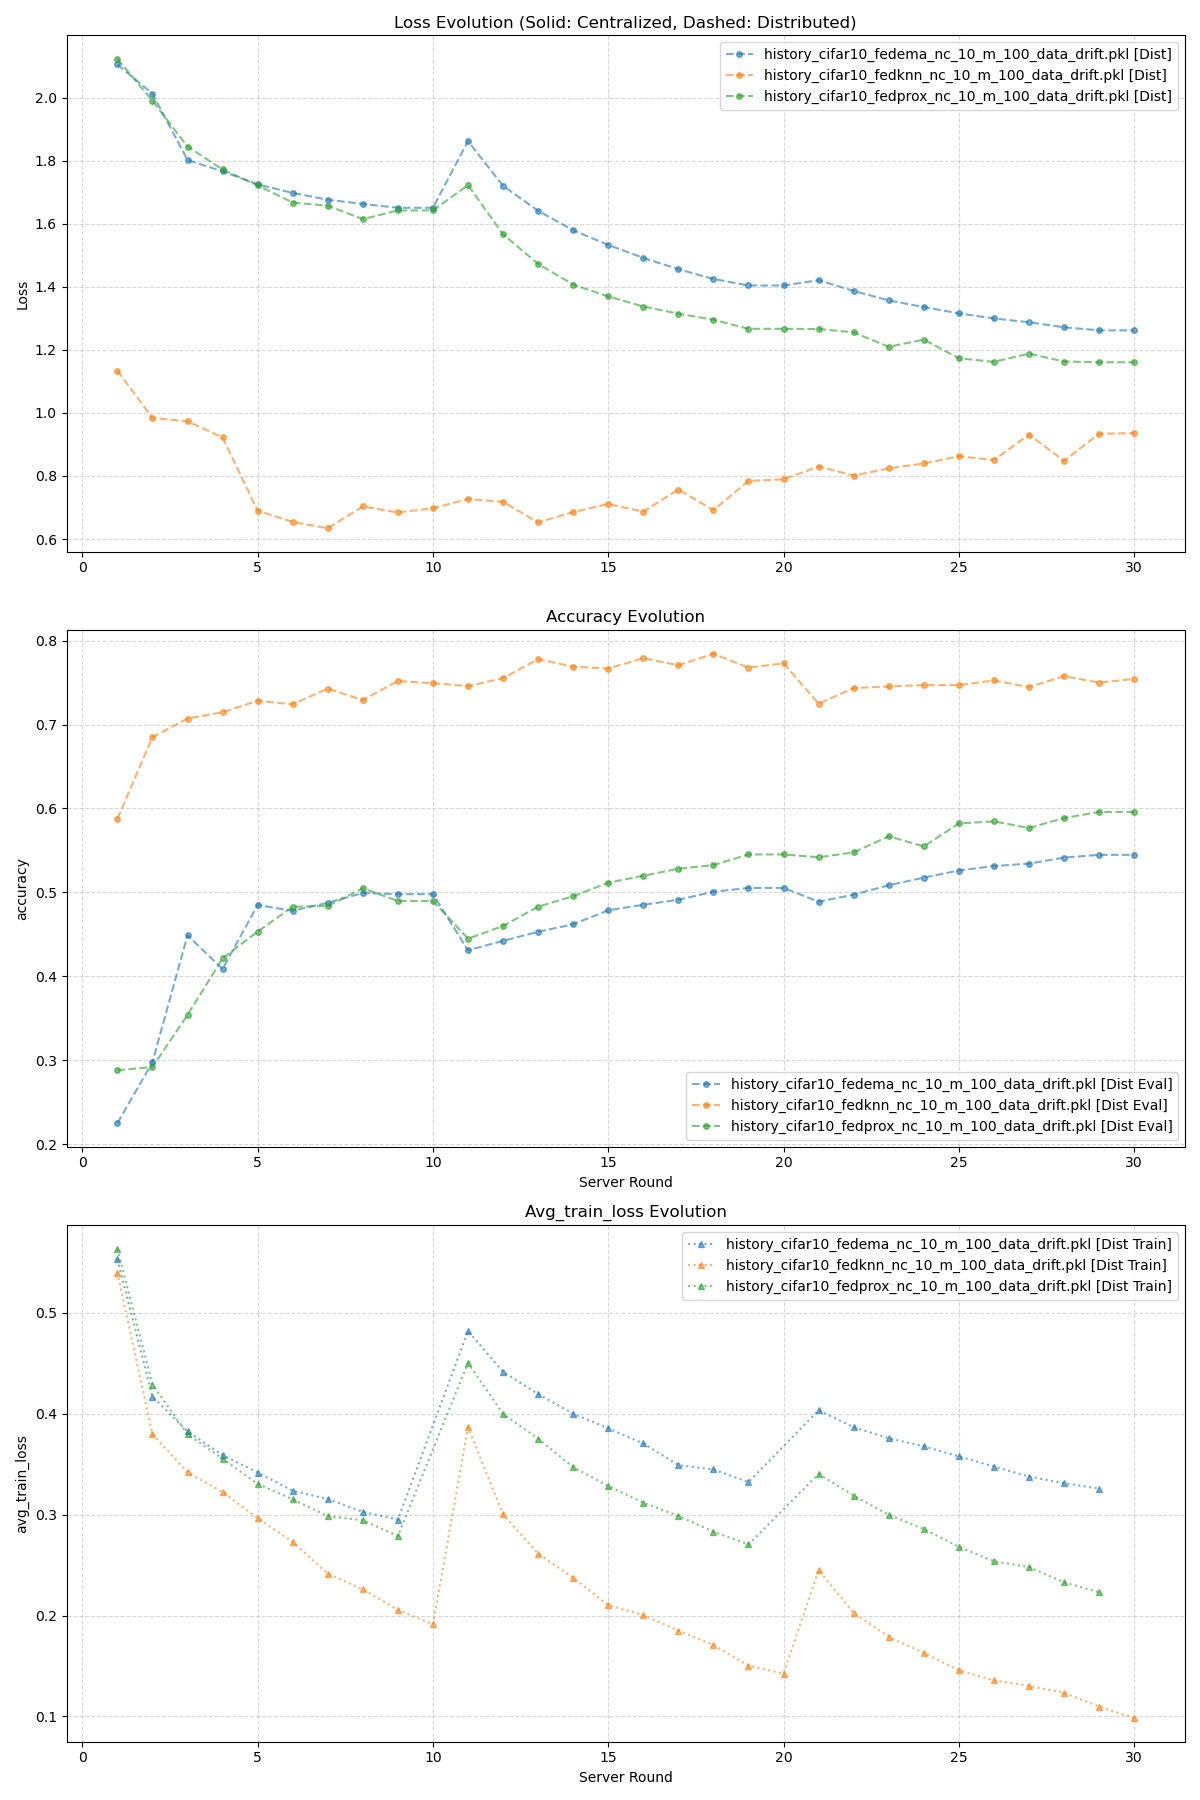
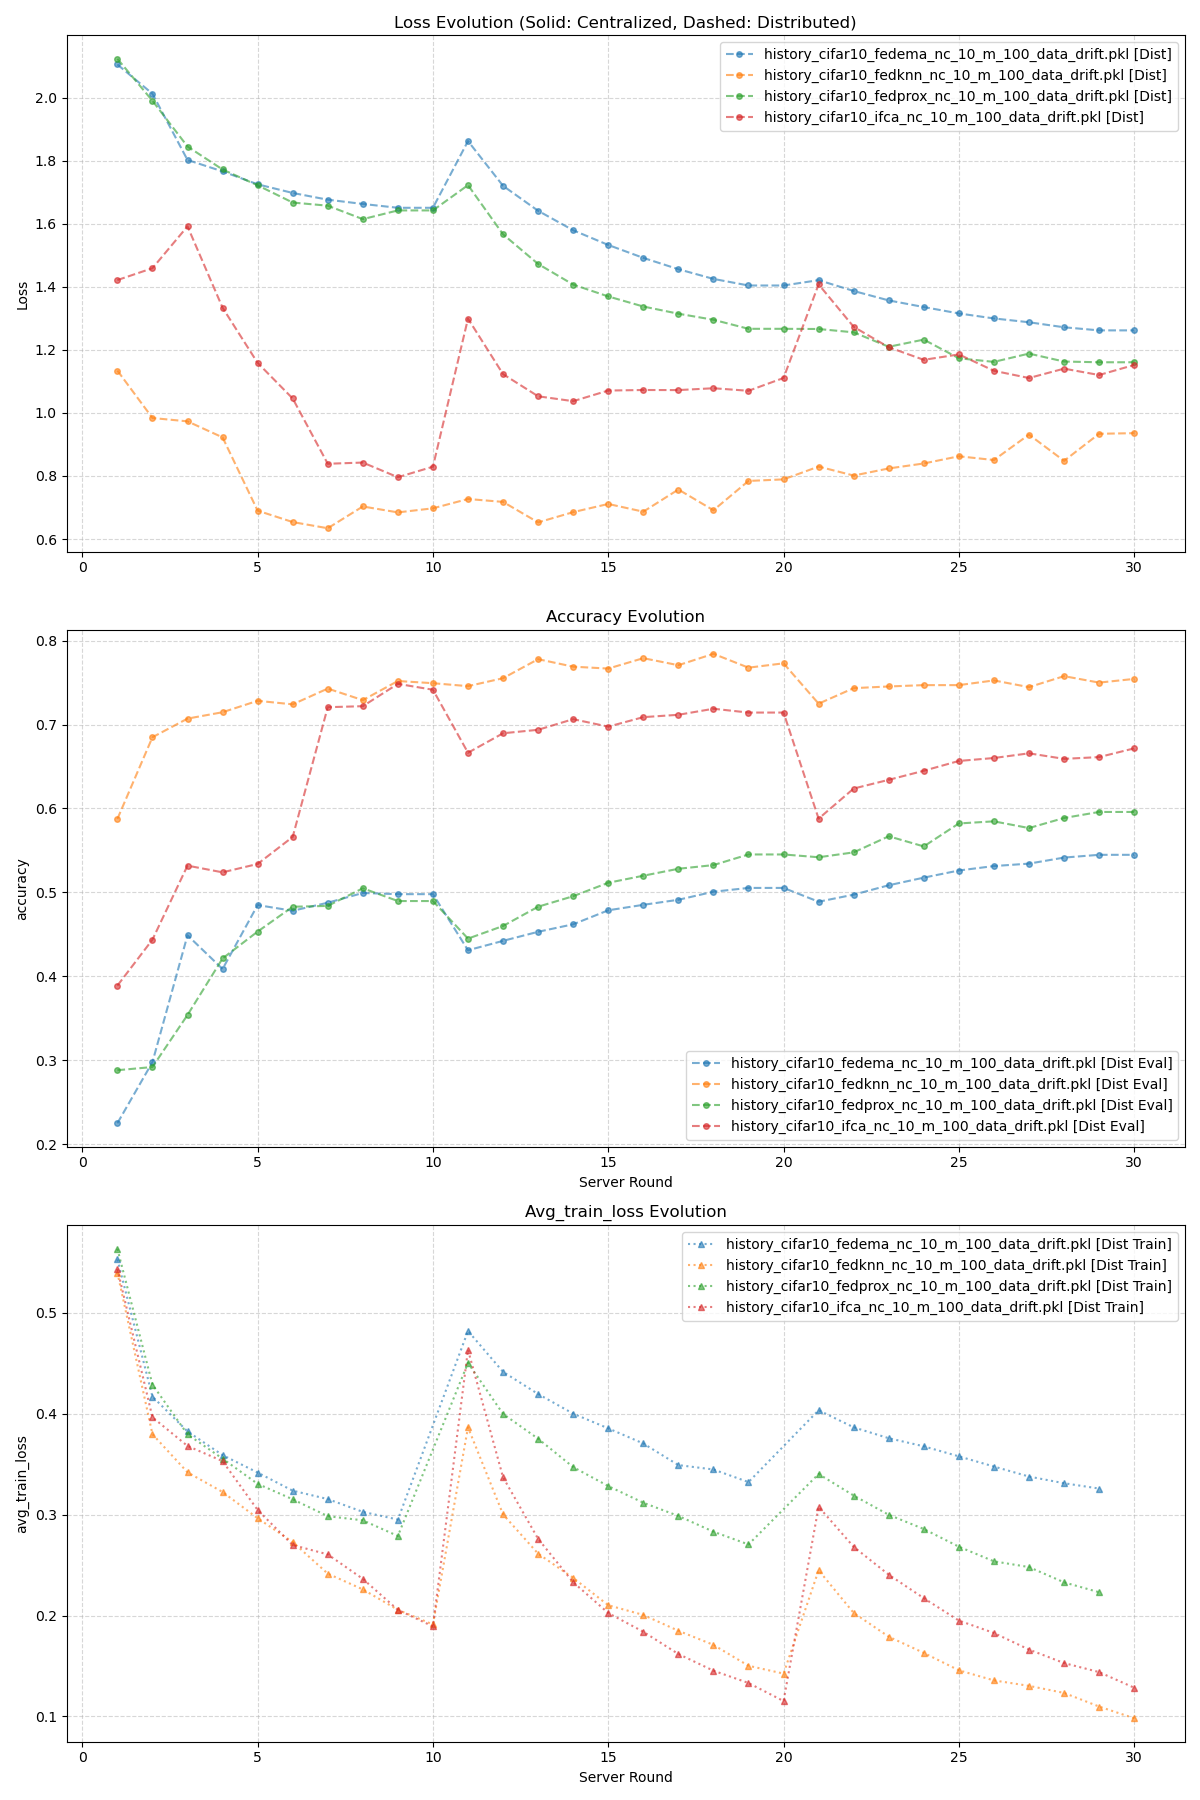
flwr impl of similarity based clustering

diff --git a/fed_niid/flwr_impl/sim_cl_strategy.py b/fed_niid/flwr_impl/sim_cl_strategy.py
@@ -1,0 +1,245 @@
+import flwr as fl
+from flwr.common import (
+    Parameters,
+    FitRes,
+    ndarrays_to_parameters,
+    parameters_to_ndarrays,
+    EvaluateIns,
+    EvaluateRes,
+    NDArrays,
+)
+
+from typing import List, Tuple, Union, Optional, Dict
+from functools import reduce
+from torch.utils.data import DataLoader
+from IPython.display import clear_output
+import numpy as np
+import math
+from collections import defaultdict
+import copy
+from sklearn.cluster import AgglomerativeClustering
+
+class FlowerStrategy(fl.server.strategy.Strategy):
+    def __init__(
+        self,
+        num_clients: int,
+        initial_parameters: Parameters,
+        k_clusters:int = 3,
+        fraction_fit: float = 1.0,
+        fraction_evaluate:float =1.0,
+        global_dataset=None,
+        global_bs=None,
+    ):
+        self.num_clients = num_clients
+        self.fraction_fit = fraction_fit
+        self.fraction_evaluate = fraction_evaluate
+        self.k_clusters = k_clusters
+                
+        if global_dataset and global_bs:
+            self.global_dataset = global_dataset
+            self.global_loader = DataLoader(global_dataset, batch_size=128, shuffle=True)
+        else:
+            self.global_dataset, self.global_loader = None, None
+        
+        self.weights = parameters_to_ndarrays(initial_parameters)
+
+        self.cluster_models = {i:copy.deepcopy(self.weights) for i in range(k_clusters)}
+        
+    def initialize_parameters(self, client_manager):
+        
+        # get all the client cids from the manager
+        self.client_cluster_map = self.cluster_clients({client_cid:copy.deepcopy(self.weights) for client_cid, client in client_manager.all()})
+
+        initial_parameters = ndarrays_to_parameters(self.weights)        
+        return initial_parameters
+
+    def configure_fit(
+        self, server_round: int, parameters: Parameters, client_manager: fl.server.client_manager.ClientManager
+    ) -> List[Tuple[fl.server.client_proxy.ClientProxy, fl.common.FitIns]]:
+
+        sample_size = int(self.num_clients * self.fraction_fit)
+        clients = client_manager.sample(sample_size, min_num_clients=1)
+
+        fit_configurations = []
+
+        for client in clients :
+
+            cluster_id = self.client_cluster_map[client.cid]         
+            fitins = fl.common.FitIns(self.cluster_models[cluster_id], {"server_round":server_round, "cluster_id":cluster_id})
+            fit_configurations.append((client, fitins))
+
+        return fit_configurations
+
+    def aggregate_fit(
+        self,
+        server_round: int,
+        results: List[Tuple[fl.server.client_proxy.ClientProxy, FitRes]],
+        failures: List[Union[Tuple[fl.server.client_proxy.ClientProxy, FitRes], BaseException]],
+    ) -> Tuple[Optional[Parameters], Dict[str, float]]:
+
+        if not results:
+            return None, {}
+
+        if failures:
+            print(f"\n[!] Round {server_round} reported {len(failures)} failures.")
+            for i, failure in enumerate(failures):
+                # failure might be a tuple (ClientProxy, Exception) or just Exception
+                if isinstance(failure, tuple):
+                    proxy, exc = failure
+                    print(f"    Failure {i} (Client {proxy.cid}): {exc}")
+                else:
+                    print(f"    Failure {i}: {failure}")
+
+        loss_aggregated = []
+        
+        client_weights = {}
+        
+        for client, fit_res in results:
+            w = parameters_to_ndarrays(fit_res.parameters)            
+            loss_aggregated.append(fit_res.metrics['train_loss'])
+            client_weights[client.cid] = (w, fit_res.metrics['num_examples'])            
+
+        active_cids = list(client_weights.keys())
+
+        self.client_cluster_map = self.cluster_clients(client_weights, active_cids)
+        
+        cluster_to_clients = defaultdict(list)
+
+        for client_cid, cluster_id in self.client_cluster_map:
+            if client_cid in active_cids:
+                cluster_to_clients[cluster_id].append(client_weights[client_cid])
+
+        for i in range(self.k_clusters):
+            if i in cluster_to_clients:
+                self.cluster_models[i] = self.cluster_aggregate(cluster_to_clients[i])
+            else:
+                pass 
+
+        metrics = {"avg_train_loss": sum(loss_aggregated) / len(loss_aggregated)}
+
+        return ndarrays_to_parameters(self.cluster_models[0]), metrics
+
+    def configure_evaluate(
+        self, server_round: int, parameters: Parameters, client_manager: fl.server.client_manager.ClientManager
+    ) -> List[Tuple[fl.server.client_proxy.ClientProxy, EvaluateIns]]:
+
+        # Sample clients for evaluation
+        sample_size = int(self.num_clients * self.fraction_evaluate)
+        clients = client_manager.sample(sample_size, min_num_clients=1)
+
+        evaluate_configurations = []
+
+        for client in clients :
+            cluster_id = self.client_cluster_map[client.cid]
+
+            evaluate_ins = EvaluateIns(self.cluster_models[cluster_id], {"server_round":server_round, "cluster_id":cluster_id})
+            evaluate_configurations.append((client, evaluate_ins))
+
+        return evaluate_configurations
+
+    def aggregate_evaluate(
+        self,
+        server_round: int,
+        results: List[Tuple[fl.server.client_proxy.ClientProxy, EvaluateRes]],
+        failures: List[Union[Tuple[fl.server.client_proxy.ClientProxy, EvaluateRes], BaseException]],
+    ) -> Tuple[Optional[float], Dict[str, float]]:
+
+        if not results:
+            return None, {}
+
+        if failures:
+            print(f"Round {server_round} had {len(failures)} failures.")
+            for fail in failures:
+                # fail is a tuple or an exception depending on Flower version/context
+                if isinstance(fail, BaseException):
+                    print(f"Failure: {fail}")
+                else:
+                    # It's a tuple (client_proxy, exception)
+                    print(f"Client {fail[0].cid} failed: {fail[1]}")
+
+        accuracies = [r.metrics["val_acc"] * r.num_examples for _, r in results]
+        examples = [r.num_examples for _, r in results]
+        losses = [r.metrics['val_loss'] * r.num_examples for _, r in results]
+              
+        if sum(examples) == 0:
+            weighted_acc = 0
+            weighted_loss = 0
+        else:
+            weighted_acc = sum(accuracies) / sum(examples)
+            weighted_loss = sum(losses) / sum(examples)
+
+        clear_output(wait=True)
+        print(f"Round {server_round} - Average Accuracy of Personalized Models: {weighted_acc * 100:.2f}%")
+
+        return float(weighted_loss), {"accuracy": float(weighted_acc), "cluster_assignments":copy.deepcopy(self.client_cluster_map)}
+
+    def evaluate(self, server_round: int, parameters: Parameters) -> Optional[Tuple[float, Dict[str, float]]]:
+        """
+        Evaluate the global centroid model on server-side data (if available).
+        To use this, pass an 'evaluate_fn' to the Strategy if you want custom logic,
+        otherwise, return None implies no centralized evaluation.
+        """       
+        return None      
+    
+    def cluster_aggregate(self, clients_weights : List[tuple[str, int, NDArrays]]) -> NDArrays:    
+
+        num_clients = len(clients_weights)
+
+        weighted_weights = [
+            [layer  for layer in weights] for _, _, weights in clients_weights
+        ]
+
+        # Compute average weights of each layer
+        weights_prime: NDArrays = [
+            reduce(np.add, layer_updates) / num_clients
+            for layer_updates in zip(*weighted_weights, strict=True)
+        ]
+        return weights_prime
+
+    def flatten(self, weights_ndarrays : NDArrays):
+        return np.hstack([layer.flatten() for layer in weights_ndarrays])    
+
+    def calculate_pairwise_distances(self, client_weights : Dict[int, Tuple[NDArrays, int]], active_cids) -> Dict[Tuple[int, int], float]:
+
+        distances = {}
+        flat_vecs = {cid: self.flatten(client_weights[cid][0]) for cid in active_cids}
+
+        for client_a in active_cids:
+            for client_b in active_cids:
+                if client_a == client_b:
+                    distances[(client_a, client_b)] = 0.0
+                else:
+                    dist = np.linalg.norm(flat_vecs[client_a] - flat_vecs[client_b], ord=2)
+                    distances[(client_a, client_b)] = float(dist)
+
+        return distances                
+
+    def cluster_clients(self, client_weights : Dict[int, Tuple[NDArrays, int]], active_cids) -> Dict[Tuple[int, int], float]:
+        # return the mapping of each client to corresponding cluster
+        
+        distances = self.calculate_pairwise_distances(client_weights, active_cids)
+
+        valid_dists = [v for v in distances.values() if v > 0]
+        if not valid_dists:
+            sigma = 1.0
+        else:
+            sigma = np.quantile(valid_dists, 0.5)
+            if sigma == 0: sigma = 1.0 
+        
+        ids_to_cids = {}
+        for i in range(len(active_cids)):
+            ids_to_cids[i] = active_cids[i]
+        
+        cids_to_ids = {v:k for k, v in ids_to_cids.items()}
+        similarities = np.zeros((len(active_cids), len(active_cids)))
+
+        for (client_a, client_b), dist in distances.items():
+            similarities[cids_to_ids[client_a], cids_to_ids[client_b]] = math.exp(-dist/sigma)
+        
+        clustering = AgglomerativeClustering(n_clusters=self.k_clusters, metric='precomputed', linkage='complete').fit_predict(similarities)
+        
+        client_cluster_map = copy.deepcopy(self.client_cluster_map)
+        for client_id, cluster_id in enumerate(clustering.labels_):
+            client_cluster_map[ids_to_cids[client_id]] = cluster_id
+
+        return client_cluster_map

diff --git a/fed_niid/flwr_impl/viz.py b/fed_niid/flwr_impl/viz.py
@@ -27,7 +27,6 @@ def get_exp_label(config):
     # Optional: Add note if it's short
     # note = config.get('note', '')
     # if note: label += f" - {note[:10]}"
-    
     return label
 
 def plot_compare_experiments(filepaths, save_path=None):
@@ -58,6 +57,9 @@ def plot_compare_experiments(filepaths, save_path=None):
     # Exclude specific keys (like your previous code)
     if "similarity_scores" in metric_keys:
         metric_keys.remove("similarity_scores")
+    
+    if "cluster_assignments" in metric_keys:
+        metric_keys.remove("cluster_assignments")
 
     # 3. Determine layout
     # 1 plot for Loss + 1 plot per unique metric
@@ -154,7 +156,8 @@ if __name__ == "__main__":
     files_to_compare = [
         "results (client evaluation on val loader)\history_cifar10_fedema_nc_10_m_100_data_drift.pkl",    
         "results (client evaluation on val loader)\history_cifar10_fedknn_nc_10_m_100_data_drift.pkl"    ,
-        "results (client evaluation on val loader)\history_cifar10_fedprox_nc_10_m_100_data_drift.pkl"
+        "results (client evaluation on val loader)\history_cifar10_fedprox_nc_10_m_100_data_drift.pkl",
+        "results (client evaluation on val loader)\history_cifar10_ifca_nc_10_m_100_data_drift.pkl"
     ]
     
     plot_compare_experiments(files_to_compare, save_path="./plots/data_drift_100_participation.png")

diff --git a/fed_niid/flwr_impl/client.py b/fed_niid/flwr_impl/client.py
@@ -45,13 +45,15 @@ class FlowerClient(fl.client.NumPyClient):
                 optimizer.zero_grad()
                 output = self.net(images)
 
-                # No proximal loss for now
-                # proximal_term = 0.0
-                # for local_weights, global_weights in zip(self.net.parameters(), global_params):
-                #     proximal_term += (local_weights - global_weights).norm(2)**2
-                # loss = criterion(output, labels) + (self.config.prox_lambda / 2) * proximal_term
-
-                loss = criterion(output, labels)
+                # proximal loss coefficient controls between fedavg and fedprox
+                if self.config.prox_lambda > 0:
+                    proximal_term = 0.0
+                    for local_weights, global_weights in zip(self.net.parameters(), global_params):
+                        proximal_term += (local_weights - global_weights).norm(2)**2
+                                
+                    loss = criterion(output, labels) + (self.config.prox_lambda / 2) * proximal_term
+                else:
+                    loss = criterion(output, labels)
 
                 loss.backward()
                 optimizer.step()

diff --git a/fed_niid/flwr_impl/data_drift_client.py b/fed_niid/flwr_impl/data_drift_client.py
@@ -94,12 +94,15 @@ class FlowerClient(fl.client.NumPyClient):
                 optimizer.zero_grad()
                 output = self.net(images)
 
-                proximal_term = 0.0
-                for local_weights, global_weights in zip(self.net.parameters(), global_params):
-                    proximal_term += (local_weights - global_weights).norm(2)**2
-                loss = criterion(output, labels) + (self.config.prox_lambda / 2) * proximal_term
-
-                # loss = criterion(output, labels)
+                # proximal loss coefficient controls between fedavg and fedprox
+                if self.config.prox_lambda > 0:
+                    proximal_term = 0.0
+                    for local_weights, global_weights in zip(self.net.parameters(), global_params):
+                        proximal_term += (local_weights - global_weights).norm(2)**2
+                                
+                    loss = criterion(output, labels) + (self.config.prox_lambda / 2) * proximal_term
+                else:
+                    loss = criterion(output, labels)
 
                 loss.backward()
                 optimizer.step()
